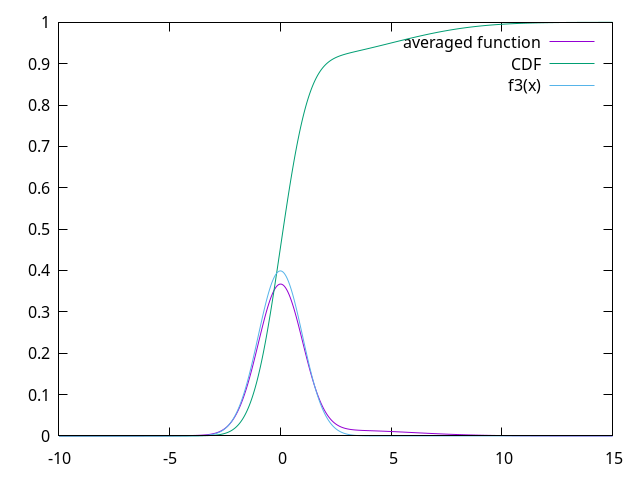
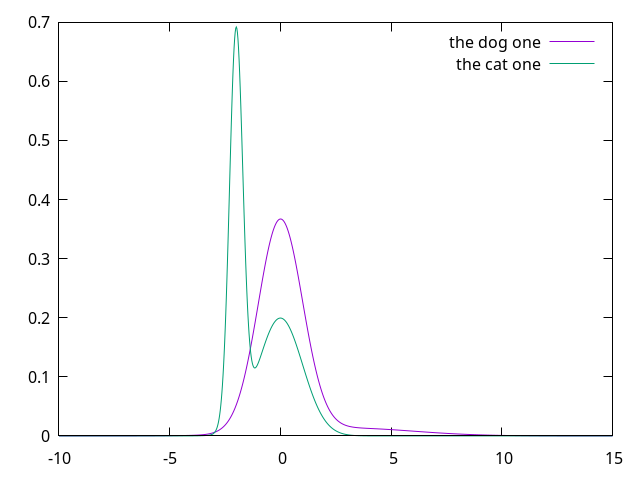
made the addFactor() method actually work by adding a full functions reset in the class

diff --git a/index.py b/index.py
@@ -5,7 +5,7 @@ from pygnuplot import gnuplot as gp
 import math                   as m
 
 #changlog for commit:
-#cleanned up some comments again, renamed function to "averageNormals()", added cumulative distribution function to axis class, added the jointNormalsProbilty() function (that typo is on purpose), improved the way that normals are made (they are now in "glob" variabel)
+#
 
 
 #math shit; its kinda beyond me what this does. gonna look up what symbols
@@ -39,7 +39,7 @@ class normalContainer:
         self.indicator = indicator
         self.i = 1
 
-    def addNormal(self, cause="noName", mu=0, sigma=1):
+    def addNormal(self, mu=0, sigma=1,cause="noName"):
 
         if cause=="noName" or cause ==f"{self.indicator}{self.i}":
             cause = f"{self.indicator}{self.i}"
@@ -58,19 +58,27 @@ class axis:
 
         self.subject = subject
         self.factors = factors
+    def resetDefine(self):
+        self.rule = averageNormals(self.factors)
+        self.densityRule = self.rule
+        self.cumulativeRule = integrate(self.rule,(x,-oo,x))
     def define(self):
         plane.cmd(f'{self.subject}(x) = {self.rule}')
     def setRule(self):
         self.rule = averageNormals(self.factors)
     def addFactor(self, function, weight):
-        self.factors += []
+        self.factors.append([function, weight])
+        self.resetDefine()
 
 
 glob = normalContainer()
 glob.addNormal()
-glob.addNormal("f2",5,3)
+glob.addNormal(5,3,"f2")
+glob.addNormal(-2,0.3)
 glob.addNormal()
-
+glob.addNormal()
+glob.addNormal()
+glob.addNormal()
 #f4 = normal
 
 def averageNormals(inputs):
@@ -103,8 +111,11 @@ def jointNormalsProbilty(inputs, lower_limit=-oo, upper_limit=x):
 dogaxis = axis("dogs", [[glob.normals["f1"],0.9], [glob.normals["f2"],0.1]])
 dogaxis.define()
 
+cataxis = axis("cats", [[glob.normals["f3"],0.5]])
+cataxis.addFactor(glob.normals["f4"],0.5)
+cataxis.define()
 
-plane.cmd(f'a(x) = {dogaxis.cumulativeRule}')
+#plane.cmd(f'a(x) = {dogaxis.cumulativeRule}')
 #this is debug thing really
-plane.plot('dogs(x) title "averaged function"', 'a(x) title "CDF"', 'f3(x)'
+plane.plot('dogs(x) title "the dog one"', 'cats(x) title "the cat one"'
 )
